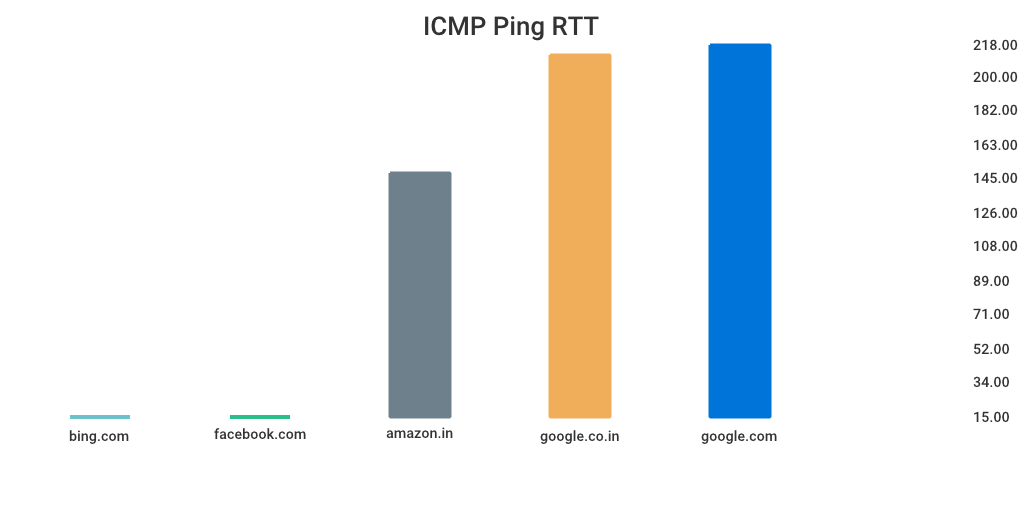
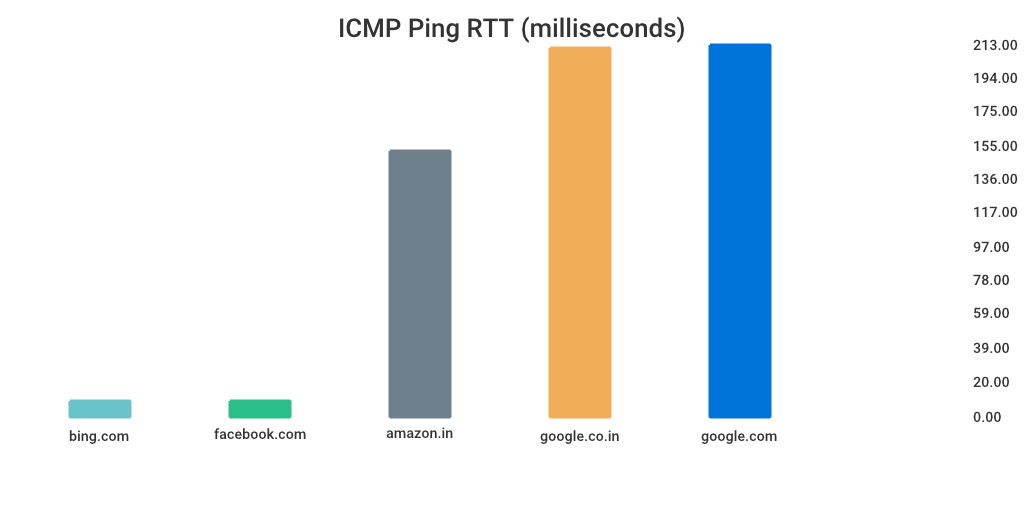
Chart starts at 0

diff --git a/webpage.go b/webpage.go
@@ -6,6 +6,7 @@ import (
 	"html/template"
 	"io/ioutil"
 	"log"
+	"math"
 	"net/http"
 	"os"
 	"strconv"
@@ -103,12 +104,20 @@ func main() {
 }
 
 func drawChart(stats []ping.Statistics) time.Time {
+	var max float64
 	var chartValues []chart.Value
 	for _, stat := range stats {
 		chartValues = append(chartValues, chart.Value{Value: float64(stat.AvgRtt.Milliseconds()), Label: stat.Addr})
+		max = math.Max(max, float64(stat.AvgRtt.Milliseconds()))
 	}
 	graph := chart.BarChart{
-		Title: "ICMP Ping RTT",
+		Title: "ICMP Ping RTT (milliseconds)",
+		YAxis: chart.YAxis{
+			Range: &chart.ContinuousRange{
+				Min: 0.0,
+				Max: max,
+			},
+		},
 		Background: chart.Style{
 			Padding: chart.Box{
 				Top: 40,
